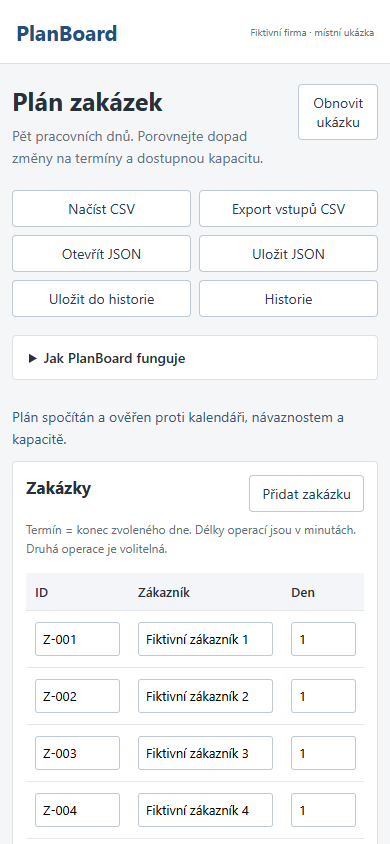
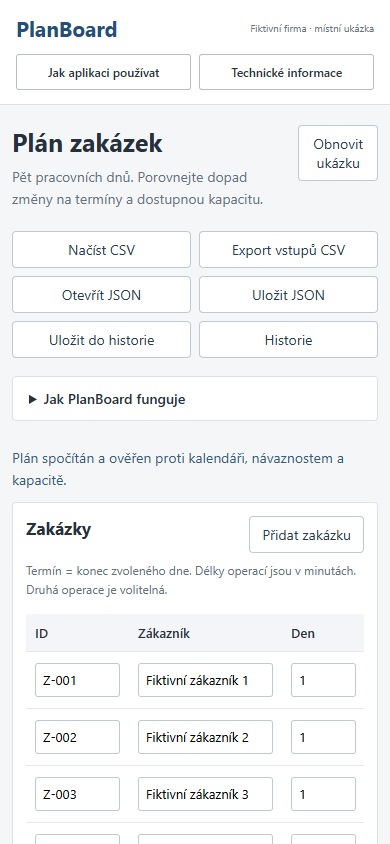
feat: localize operation labels and add first-visit help

diff --git a/web/app.js b/web/app.js
@@ -1,12 +1,14 @@
 'use strict';
 const $=id=>document.getElementById(id),state={data:null,result:null,generation:0,busy:false};
+const operationNames={cut:'Řezání',assembly:'Montáž',pack:'Balení'};
+const operationName=key=>operationNames[key]||key;
 const labels={onTime:'V termínu',late:'Zpoždění',unplanned:'Nezařazeno'};
 function el(tag,text='',className=''){const n=document.createElement(tag);n.textContent=text;if(className)n.className=className;return n}
 function message(text,error=false){$('message').textContent=text;$('message').classList.toggle('error',error)}
 async function api(path,body,method){const r=await fetch(path,{method:method||(body?'POST':'GET'),headers:body?{'Content-Type':'application/json'}:{},body:body?JSON.stringify(body):undefined});const data=await r.json();if(!r.ok)throw Error(data.error||'Požadavek selhal.');return data}
 function dirty(){state.generation++;state.busy=false;$('run').disabled=false;state.result=null;$('result').hidden=true;$('freshness').textContent='Změněno – přepočítejte plán.';message('Vstupy se změnily. Přepočítejte plán pro aktuální výsledek.')}
 function input(value,type,label,change){const n=document.createElement('input');n.type=type;n.value=value;n.setAttribute('aria-label',label);if(type==='number'){n.min='1';n.max='480';n.step='1'}n.addEventListener('input',()=>{change(type==='number'?Number(n.value):n.value);dirty()});return n}
-function machine(value,label,change,optional=false){const n=document.createElement('select');n.setAttribute('aria-label',label);if(optional){const o=el('option','Bez druhé operace');o.value='';n.append(o)}for(const key of new Set(state.data.resources.map(r=>r.capability))){const o=el('option',key);o.value=key;n.append(o)}n.value=value;n.addEventListener('change',()=>{change(n.value);dirty()});return n}
+function machine(value,label,change,optional=false){const n=document.createElement('select');n.setAttribute('aria-label',label);if(optional){const o=el('option','Bez druhé operace');o.value='';n.append(o)}for(const key of new Set(state.data.resources.map(r=>r.capability))){const o=el('option',operationName(key));o.value=key;n.append(o)}n.value=value;n.addEventListener('change',()=>{change(n.value);dirty()});return n}
 function renderInputs(){
  const rows=$('jobs');rows.replaceChildren();
  for(const [i,job] of state.data.jobs.entries()){
@@ -20,7 +22,7 @@ function renderInputs(){
   const remove=el('button','Odebrat');remove.setAttribute('aria-label',`Odebrat ${job.id}`);remove.onclick=()=>{if(state.data.jobs.length===1){message('Ponechte alespoň jednu zakázku.',true);return}state.data.jobs.splice(i,1);dirty();renderInputs()};add(remove);rows.append(tr);
  }
  const resources=$('resources');resources.replaceChildren();
- for(const resource of state.data.resources){const row=el('div','','resource');row.append(el('strong',resource.name),el('small','Typ operace: '+resource.capability));const label=el('label','Minut denně ');label.append(input(resource.dailyMinutes,'number',`Kapacita ${resource.name}`,v=>resource.dailyMinutes=v));row.append(label);if(resource.blackouts?.length)row.append(el('small',`${resource.blackouts.length} uložených intervalů výpadku`));resources.append(row)}
+ for(const resource of state.data.resources){const row=el('div','','resource');row.append(el('strong',resource.name),el('small','Typ operace: '+operationName(resource.capability)));const label=el('label','Minut denně ');label.append(input(resource.dailyMinutes,'number',`Kapacita ${resource.name}`,v=>resource.dailyMinutes=v));row.append(label);if(resource.blackouts?.length)row.append(el('small',`${resource.blackouts.length} uložených intervalů výpadku`));resources.append(row)}
 }
 function time(value,end=false){if(value===null||value===undefined)return '—';let day=Math.floor(value/480),minute=value%480;if(end&&value>0&&minute===0){day--;minute=480}return `D${day+1} ${String(8+Math.floor(minute/60)).padStart(2,'0')}:${String(minute%60).padStart(2,'0')}`}
 function detail(id){const result=state.result?.changed;if(!result)return;const job=result.jobs.find(j=>j.id===id);$('detail-title').textContent=job.id+' – '+labels[job.status];const root=$('detail');root.replaceChildren(el('p',job.customer),el('p',`Termín: ${time(job.due,true)}. Dokončení: ${time(job.completion,true)}.`),el('p',job.reason));for(const op of result.operations.filter(o=>o.jobId===id)){root.append(el('p',`Operace ${op.operation} · ${op.resource} · ${time(op.start)} až ${time(op.end,true)} · ${op.end-op.start} min`),el('p',`Nejdříve podle návaznosti: ${time(op.release)}. První vhodný interval kalendáře bez ostatních zakázek: ${time(op.calendarStart)}. Čekání podle kalendáře: ${op.calendarWait} min. Další čekání po započtení obsazenosti a následných směn: ${op.occupancyWait} min.`));}$('detail-dialog').showModal()}

diff --git a/web/guide.js b/web/guide.js
@@ -1,0 +1,20 @@
+const config={"name":"PlanBoard","purpose":"Naplánujte zakázky podle dostupných pracovišť a porovnejte dopad výpadku nebo nové kapacity.","steps":["Upravte zakázky, český typ operace, délku a termín. Každá operace se musí vejít do jedné směny.","Zvolte výpadek, urgentní zakázku nebo přidanou kapacitu. Přepočítejte plán a porovnejte se základem.","Otevřete operaci v časovém plánu a zkontrolujte důvod čekání. Výsledek exportujte nebo uložte vstupní scénář do historie."],"tech":["Python standardní knihovna, SQLite, HTML/CSS/JavaScript. Bez AI a externích API.","Heuristika hledá volné intervaly podle priority, termínu a ID. Samostatný kontrolor ověřuje kapacitu, návaznosti a směny.","Pět pracovních dnů po 480 minutách. SQLite historie uchovává vstupy; po otevření se výsledek přepočítá."],"limit":"Postup nezaručuje nejlepší možný plán. Nezařazené zakázky zůstávají viditelné. Místní ukázka nemá firemní přihlášení.","repo":"planboard"};
+
+(()=>{
+ const node=(tag,text,className)=>{const e=document.createElement(tag);if(text!==undefined)e.textContent=text;if(className)e.className=className;return e};
+ const key='portfolio-guide:'+config.repo+':v1';
+ const header=document.querySelector('header');if(!header)return;header.classList.add('has-guide');
+ const links=node('div',undefined,'guide-links');links.setAttribute('role','group');links.setAttribute('aria-label','Nápověda aplikace');
+ const usage=node('button','Jak aplikaci používat'),technical=node('button','Technické informace');usage.type=technical.type='button';usage.id='guide-use';technical.id='guide-tech';links.append(usage,technical);header.append(links);
+ const dialog=node('dialog',undefined,'guide-dialog');dialog.id='guide-dialog';dialog.setAttribute('aria-labelledby','guide-title');
+ const head=node('div',undefined,'guide-head'),title=node('h2');title.id='guide-title';const close=node('button','×','guide-close');close.type='button';close.setAttribute('aria-label','Zavřít nápovědu');close.id='guide-close';head.append(title,close);
+ const tabs=node('div',undefined,'guide-tabs'),useTab=node('button','Používání'),techTab=node('button','Technické řešení');useTab.type=techTab.type='button';tabs.append(useTab,techTab);
+ const body=node('div',undefined,'guide-content'),foot=node('div',undefined,'guide-foot'),github=node('a','Úplný popis na GitHubu ↗'),start=node('button','Začít používat','guide-start');github.href='https://github.com/OmegaCatt/'+config.repo+'#readme';github.target='_blank';github.rel='noopener noreferrer';start.id='guide-start';start.type='button';foot.append(github,start);dialog.append(head,tabs,body,foot);document.body.append(dialog);
+ let opener=null;
+ function render(kind){const isUse=kind==='use';title.textContent=(isUse?'Jak používat ':'Technické informace · ')+config.name;useTab.setAttribute('aria-pressed',String(isUse));techTab.setAttribute('aria-pressed',String(!isUse));body.replaceChildren();if(isUse){body.append(node('p',config.purpose,'guide-purpose'));const list=node('ol');for(const text of config.steps)list.append(node('li',text));body.append(list)}else{for(const text of config.tech)body.append(node('p',text))}body.append(node('p',config.limit,'guide-limit'));dialog.scrollTop=0;}
+ function open(kind,trigger){opener=trigger||document.activeElement;render(kind);if(!dialog.open)dialog.showModal();start.focus({preventScroll:true})}
+ usage.onclick=()=>open('use',usage);technical.onclick=()=>open('tech',technical);useTab.onclick=()=>render('use');techTab.onclick=()=>render('tech');close.onclick=start.onclick=()=>dialog.close();
+ dialog.addEventListener('close',()=>{try{localStorage.setItem(key,'seen')}catch{}if(opener?.isConnected&&!document.querySelector('dialog[open]'))opener.focus({preventScroll:true})});
+ dialog.addEventListener('keydown',event=>{if(event.key!=='Tab')return;const items=[...dialog.querySelectorAll('button:not(:disabled),a[href]')].filter(e=>e.getClientRects().length);const first=items[0],last=items.at(-1);if(event.shiftKey&&document.activeElement===first){event.preventDefault();last.focus()}else if(!event.shiftKey&&document.activeElement===last){event.preventDefault();first.focus()}});
+ let seen=false;try{seen=localStorage.getItem(key)==='seen'}catch{}if(!seen)open('use');
+})();

diff --git a/web/guide.css b/web/guide.css
@@ -1,0 +1,24 @@
+
+.has-guide{height:auto!important;min-height:70px;flex-wrap:wrap;row-gap:12px;padding-top:14px!important;padding-bottom:14px!important}
+.guide-links{display:flex;flex-wrap:wrap;gap:8px;margin-left:auto;align-items:center;flex-shrink:0}
+.guide-links button{font:600 12px/1.35 system-ui,sans-serif!important;letter-spacing:0!important;display:inline-flex;align-items:center;justify-content:center;min-height:36px;width:auto;max-width:100%;padding:8px 11px!important;border:1px solid #b6bdc3!important;border-radius:3px!important;background:#fff!important;color:#283440!important;box-shadow:none!important;transform:none!important;transition:none!important;cursor:pointer}
+#guide-dialog{box-sizing:border-box;width:min(700px,calc(100vw - 28px));max-width:calc(100vw - 28px);max-height:calc(100dvh - 32px);margin:auto;padding:26px;border:1px solid #969fa7;border-radius:5px;background:#fff;color:#27323b;box-shadow:none;font:15px/1.6 system-ui,sans-serif;overflow:auto;letter-spacing:normal}
+#guide-dialog::backdrop{background:#18232c99;backdrop-filter:none}
+#guide-dialog *{box-sizing:border-box}
+#guide-dialog .guide-head{display:flex;justify-content:space-between;gap:16px;align-items:start}
+#guide-dialog h2{font:700 23px/1.25 system-ui,sans-serif;letter-spacing:-.3px;margin:0;color:#27323b}
+#guide-dialog button{font:600 13px/1.4 system-ui,sans-serif;letter-spacing:normal;transition:none;transform:none;box-shadow:none;cursor:pointer;min-height:38px;border:1px solid #a7b1b8;border-radius:3px;padding:8px 12px;background:#fff;color:#283440;width:auto;margin:0}
+#guide-dialog .guide-close{font-size:23px;padding:0 10px;flex:none}
+#guide-dialog .guide-tabs{display:flex;gap:8px;flex-wrap:wrap;border-bottom:1px solid #d8dde1;padding:18px 0 14px}
+#guide-dialog .guide-tabs [aria-pressed=true]{background:#eaf0f3;border-color:#647581}
+#guide-dialog .guide-content{padding-top:6px;overflow-wrap:anywhere}
+#guide-dialog p{font:inherit;margin:14px 0;color:inherit}
+#guide-dialog .guide-purpose{font-weight:550}
+#guide-dialog ol{padding-left:23px;margin:16px 0}
+#guide-dialog li{padding-left:5px;margin:12px 0}
+#guide-dialog .guide-limit{font-size:13px;border-left:3px solid #9ba9b2;padding:8px 12px;background:#f3f5f6;color:#46535e}
+#guide-dialog .guide-foot{display:flex;align-items:center;justify-content:space-between;gap:14px;border-top:1px solid #d8dde1;padding-top:18px;margin-top:20px;flex-wrap:wrap}
+#guide-dialog a{font-size:13px;color:#244a67;text-decoration:underline}
+#guide-dialog .guide-start{background:#2c414f;color:white;border-color:#2c414f}
+#guide-dialog :focus-visible,.guide-links button:focus-visible{outline:3px solid #bf810c!important;outline-offset:3px}
+@media(max-width:800px){.has-guide .guide-links{margin-left:0;width:100%}.guide-links button{flex:1 1 auto}#guide-dialog{padding:18px;font-size:14px}#guide-dialog h2{font-size:20px}#guide-dialog .guide-foot{align-items:stretch;flex-direction:column}#guide-dialog .guide-start{width:100%}}

diff --git a/web/index.html b/web/index.html
@@ -1,5 +1,5 @@
 <!doctype html>
-<html lang="cs"><head><meta charset="utf-8"><meta name="viewport" content="width=device-width,initial-scale=1"><title>PlanBoard – plán zakázek</title><link rel="stylesheet" href="/style.css"><script src="/app.js" defer></script></head>
+<html lang="cs"><head><meta charset="utf-8"><meta name="viewport" content="width=device-width,initial-scale=1"><title>PlanBoard – plán zakázek</title><link rel="stylesheet" href="/style.css"><script src="./guide.js" defer></script><script src="/app.js" defer></script><link rel="stylesheet" href="./guide.css"></head>
 <body><a class="skip" href="#main">Přeskočit na obsah</a>
 <header><strong>PlanBoard</strong><span>Zakázky a kapacity</span><small>Fiktivní firma · místní ukázka</small></header>
 <main id="main">

diff --git a/planner.py b/planner.py
@@ -2,6 +2,8 @@
 from __future__ import annotations
 from copy import deepcopy
 
+OPERATION_NAMES = {'cut': 'Řezání', 'assembly': 'Montáž', 'pack': 'Balení'}
+
 VERSION = 1
 DAY = 480
 HORIZON = 5 * DAY
@@ -104,7 +106,7 @@ def schedule(data):
                 if start is not None:
                     candidates.append((start, resource['id']))
             if not candidates:
-                failure = f"Pro zvolené pořadí se operace {index + 1} ({op['machine']}, {op['minutes']} min) po dokončení předchůdce nevejde do dostupných směn pětidenního horizontu. Jiné pořadí může dát jiný výsledek."
+                failure = f"Pro zvolené pořadí se operace {index + 1} ({OPERATION_NAMES.get(op['machine'], op['machine'])}, {op['minutes']} min) po dokončení předchůdce nevejde do dostupných směn pětidenního horizontu. Jiné pořadí může dát jiný výsledek."
                 break
             start, resource_id = min(candidates)
             calendar_start=find_slot(windows[resource_id],[],release,op['minutes'])

diff --git a/server.py b/server.py
@@ -10,7 +10,7 @@ from imports import import_csv,export_csv,export_result_csv
 from planner import compare,validate,VERSION
 
 ROOT=Path(__file__).resolve().parent
-FILES={'/':('index.html','text/html'),'/app.js':('app.js','text/javascript'),'/style.css':('style.css','text/css')}
+FILES={'/guide.js':('guide.js','text/javascript'),'/guide.css':('guide.css','text/css'),'/':('index.html','text/html'),'/app.js':('app.js','text/javascript'),'/style.css':('style.css','text/css')}
 
 
 class Handler(BaseHTTPRequestHandler):

diff --git a/README.md b/README.md
@@ -1,5 +1,12 @@
 # PlanBoard
 
+## Orientace v aplikaci (11. 11. 2026)
+
+Při první návštěvě se otevře stručný návod. Po zavření si aplikace v tomto prohlížeči zapamatuje potvrzení; změna nemá vliv na obchodní data. V hlavičce lze kdykoli otevřít **Jak aplikaci používat** a **Technické informace**. Oba obsahy odkazují na úplný README zde na GitHubu. Pokud úložiště prohlížeče není dostupné, návod lze zavřít a aplikace dál funguje.
+
+Operace se v rozhraní zobrazují česky: Řezání, Montáž a Balení. Strojové klíče cut/assembly/pack v JSON/CSV zůstávají stabilní kvůli kompatibilitě. Vlastní neznámé názvy se zobrazí tak, jak byly zadané.
+
+
 **Plánování fiktivních zakázek, omezené kapacity a dopadu provozních změn.** Python plánovač sestaví časový plán, samostatně ověří jeho proveditelnost a porovná původní stav s výpadkem, urgentní zakázkou nebo paralelní kapacitou.
 
 ![Porovnání kapacity](docs/timeline.png)
@@ -70,6 +77,9 @@ Pokud příkaz `python` není na PATH, lze nastavit `PLANBOARD_PYTHON`. Pro mís
 Firemní pilot by začal odsouhlasením časových jednotek, směn, návazností, kapacit a vyhodnocovaných termínů. Potom by se známé zakázky ručně přepočítaly a srovnaly s nástrojem v odděleném prostředí. Skutečné zavedení vyžaduje přihlášení, oprávnění, správu kalendářů a zdrojových integrací, monitoring a provozní odpovědnost. Místní demo používá jen fiktivní data a nenahrazuje výrobní systém.
 
 ## English
+
+First-time visitors see a keyboard-accessible guide; persistent header buttons reopen usage and technical information with a link to this README. Acknowledgement is browser-local and does not store business records. Operation labels are localized as Řezání (cut), Montáž (assembly), Balení (pack), while JSON/CSV machine keys remain stable. Custom names retain their supplied text.
+
 
 PlanBoard is a local portfolio application for finite-capacity job planning. A deterministic Python heuristic schedules one or two nonpreemptive operations per job across compatible resources over five 480-minute workdays. It compares a shared baseline with a two-hour outage, an urgent job or parallel capacity, keeping unscheduled jobs visible. A separate checker verifies constraints, waiting explanations and metrics. It does not claim global optimality or use AI/API keys.
 

diff --git a/docs/QA.md b/docs/QA.md
@@ -1,3 +1,11 @@
+# UX-1 až UX-7 – 11. 11. 2026
+
+Místně ověřené unit testy: **16 Python**.
+
+Operace se v rozhraní zobrazují česky: Řezání, Montáž a Balení. Strojové klíče cut/assembly/pack v JSON/CSV zůstávají stabilní kvůli kompatibilitě. Vlastní neznámé názvy se zobrazí tak, jak byly zadané.
+
+Všech sedm aplikací má první přístupný dialog a stálé ovládání nápovědy v hlavičce. Playwright ověřuje skutečný první vstup, obě části, GitHub odkaz, Tab/Shift+Tab, Escape, návrat fokusu, potvrzení po reloadu a mobil. CompanyAtlas čeká s přihlášením na zavření úvodu; hlavička se testuje po přihlášení. Legacy pracovní průchody pokračují po skutečném zavření úvodu. Aktuální commit, CI a přesný rozsah ověření této etapy jsou vedené v hlavním Portfolio_PROGRESS.md; starší zápisy níže jsou historické.
+
 # Opakované ověření 10. 11. 2026
 
 **16 Python testů prošlo.** Znovu spuštěné prohlížečové QA ověřilo skutečný pracovní postup na dočasných fiktivních podkladech, desktop i mobil a JavaScript chyby. Nová kontrola zopakovala běžné i připravené chybové toky. Původní počet testů zůstává beze změny.

diff --git a/docs/PROJECT.md b/docs/PROJECT.md
@@ -1,3 +1,9 @@
+# UX-1 až UX-7 – 11. 11. 2026
+
+Operace se v rozhraní zobrazují česky: Řezání, Montáž a Balení. Strojové klíče cut/assembly/pack v JSON/CSV zůstávají stabilní kvůli kompatibilitě. Vlastní neznámé názvy se zobrazí tak, jak byly zadané.
+
+Všech sedm aplikací má první přístupný dialog a stálé ovládání nápovědy v hlavičce. Playwright ověřuje skutečný první vstup, obě části, GitHub odkaz, Tab/Shift+Tab, Escape, návrat fokusu, potvrzení po reloadu a mobil. CompanyAtlas čeká s přihlášením na zavření úvodu; hlavička se testuje po přihlášení. Legacy pracovní průchody pokračují po skutečném zavření úvodu. Aktuální commit, CI a přesný rozsah ověření této etapy jsou vedené v hlavním Portfolio_PROGRESS.md; starší zápisy níže jsou historické.
+
 # Aktuální rozsah a kontrola 10. 11. 2026
 
 Aktuální funkce, technologie, API, způsob použití, firemní zavedení a omezení jsou v [README](../README.md). Znovu prošlo 16 Python testů a odpovídající skutečný browser průchod desktop/mobil. Jde o fiktivní portfolio projekt. Výsledky a případné opravy jsou v [QA](QA.md).
